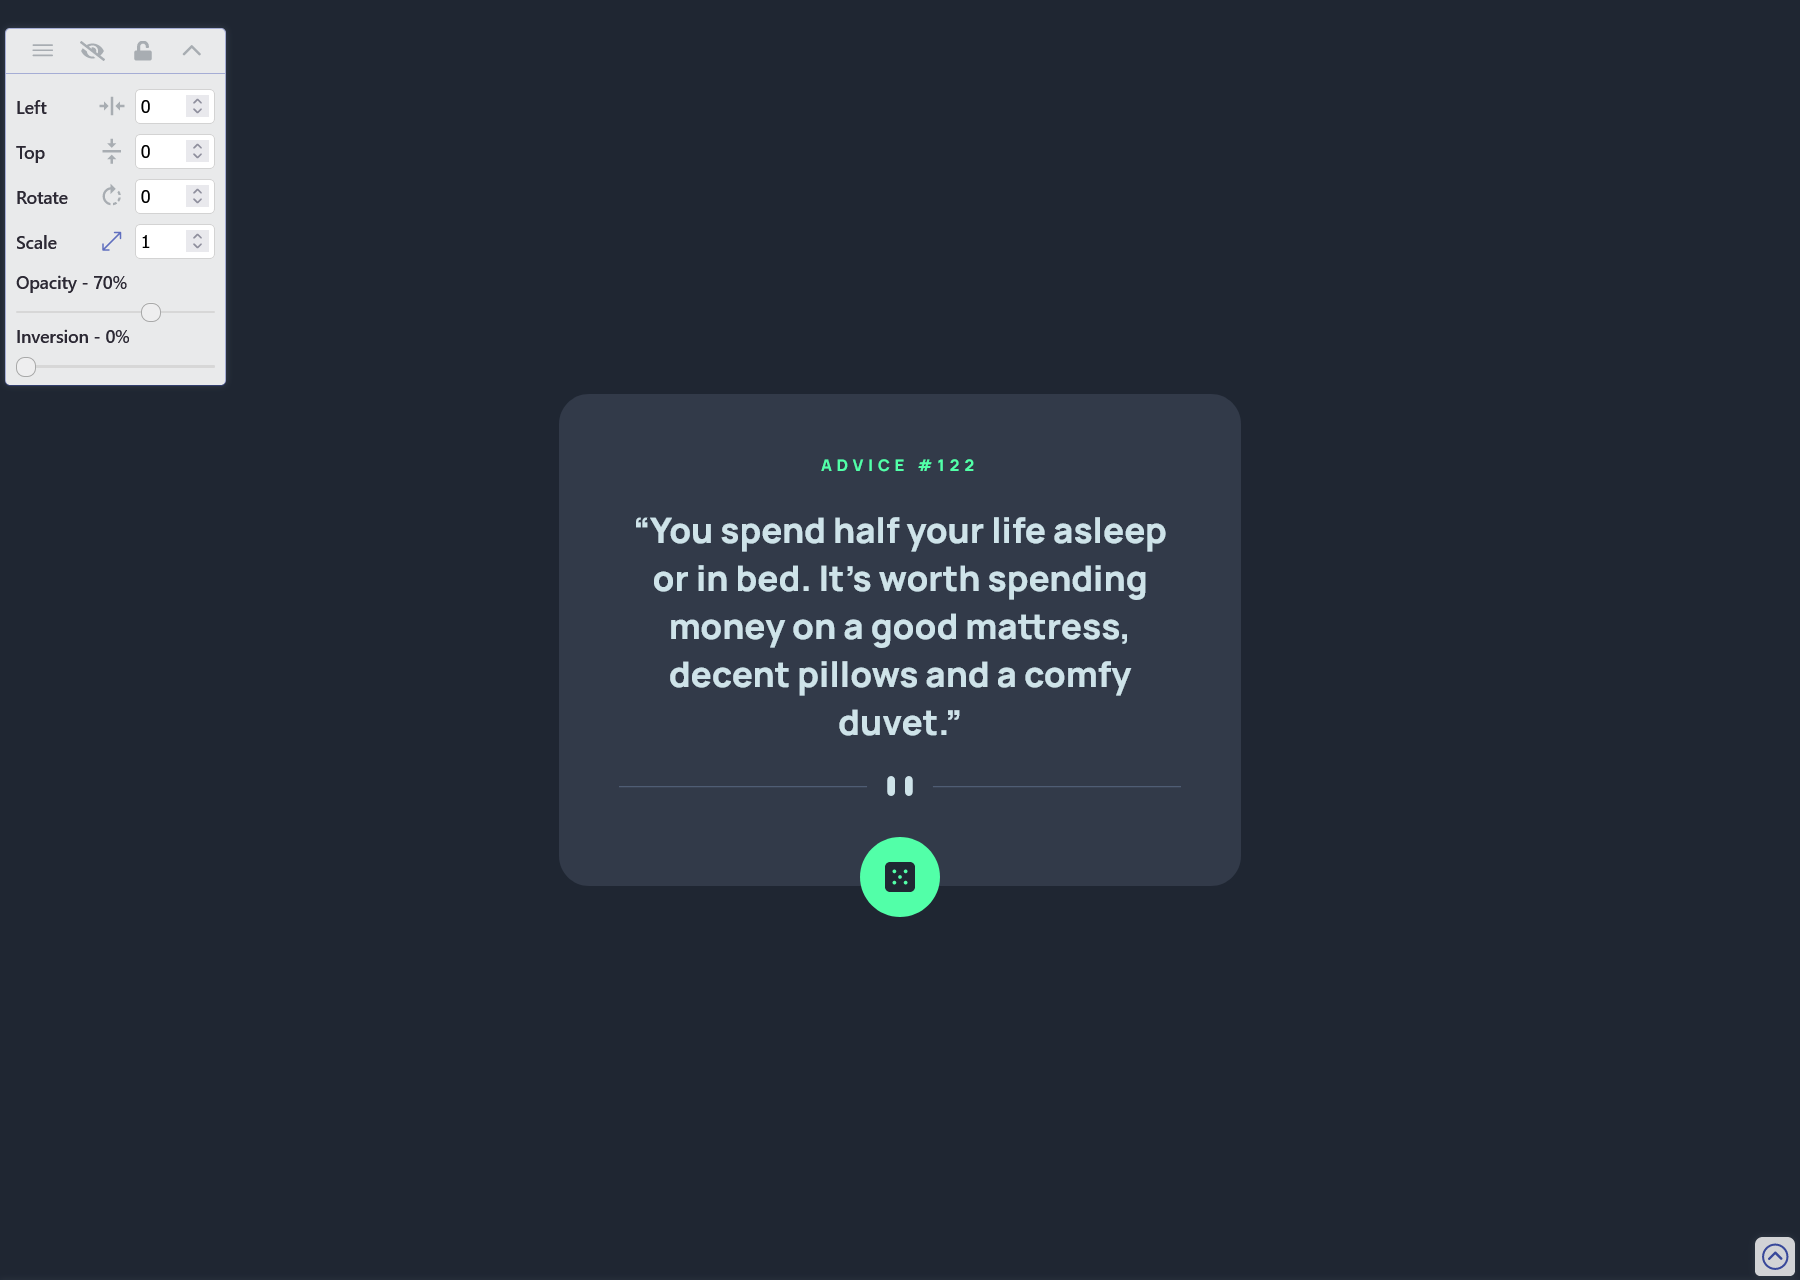
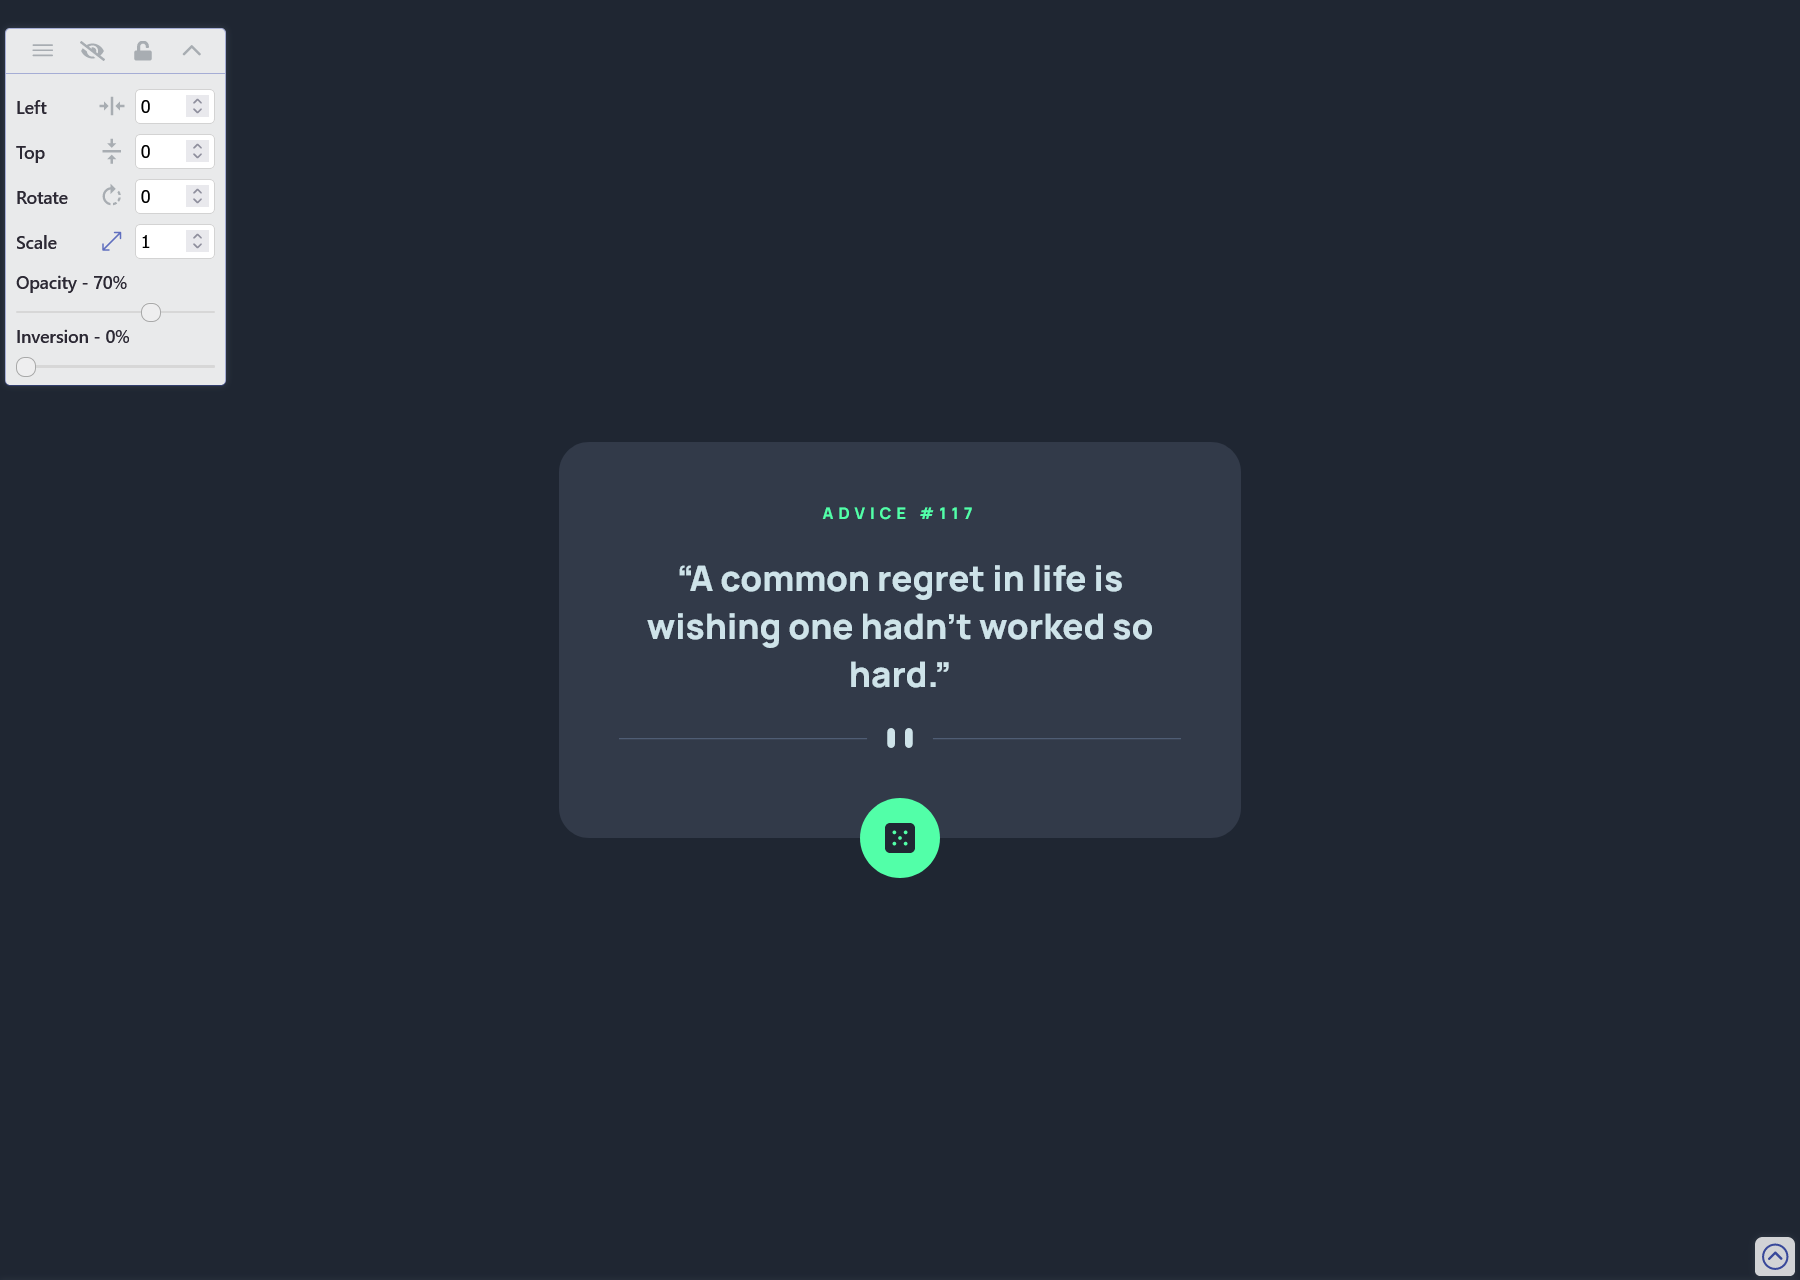
fixes

Changed region(s): [[0.3422, 0.3438, 0.6533, 0.5938], [0.4667, 0.625, 0.5289, 0.7188]]

diff --git a/src/App.jsx b/src/App.jsx
@@ -6,7 +6,7 @@ function App() {
 
   useState(() => {
     async function getAdvice() {
-      const { data } = await axios.get(`https://api.adviceslip.com/advice`);
+      const { data } = await axios.get(`https://api.adviceslip.com/advice/117`);
       setAdvice(data.slip);
     }
 

diff --git a/README.md b/README.md
@@ -19,7 +19,7 @@ This is a solution to the [Advice generator app challenge on Frontend Mentor](ht
 
 ### Links
 
-- Live Site URL: [https://luminous-figolla-ea91da.netlify.app/](https://luminous-figolla-ea91da.netlify.app/)
+- Live Site URL: [https://meek-genie-bd2474.netlify.app/](https://meek-genie-bd2474.netlify.app/)
 
 ## My process
 
